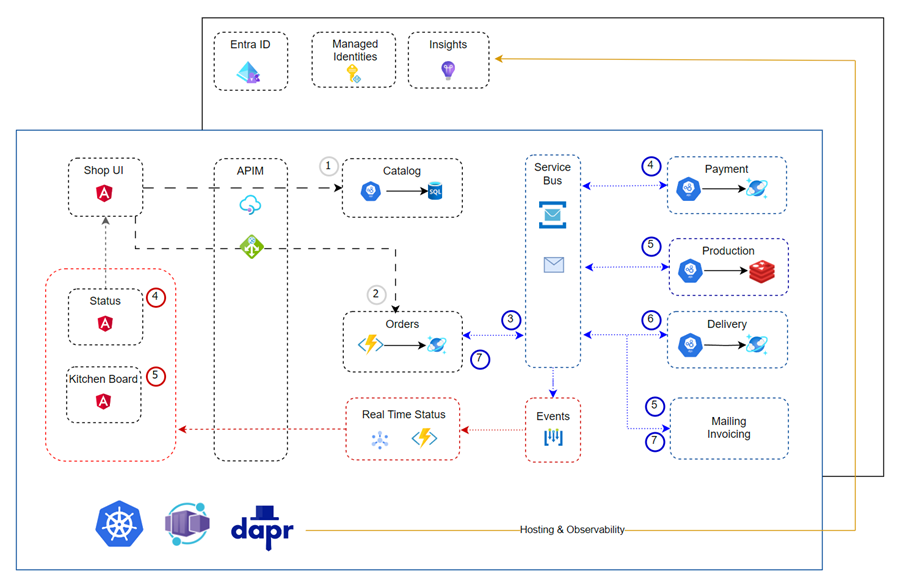
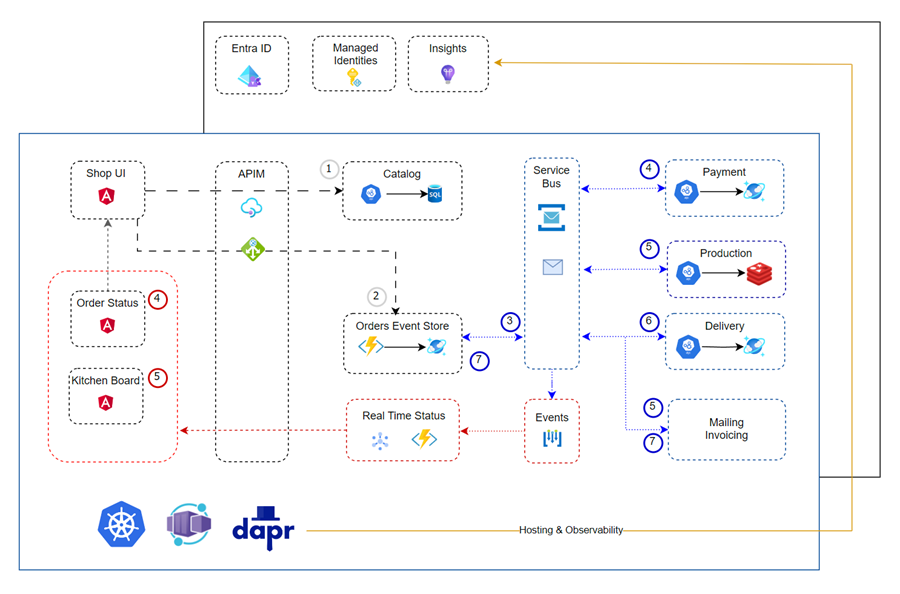
change feed

diff --git a/demos/05-cosmos-db/04-change-feed/order-events-service/Model/OrderEvent.cs b/demos/05-cosmos-db/04-change-feed/order-events-service/Model/OrderEvent.cs
@@ -1,5 +1,4 @@
 using Newtonsoft.Json;
-using Newtonsoft.Json.Linq;
 
 namespace FoodApp.Orders
 {
@@ -16,6 +15,7 @@ namespace FoodApp.Orders
             OrderId = orderId;
             EventType = eventType;
             EventData = eventData;
+            Timestamp = System.DateTime.UtcNow;
         }
 
         [JsonProperty("id")]

diff --git a/demos/01-introduction/02-architecture/readme.md b/demos/01-introduction/02-architecture/readme.md
@@ -28,7 +28,7 @@
 
 Food App is a food delivery application that is used to demonstrate how to combine the different Azure building blocks, in order to build a modern cloud native application. It consists of several Micro Frontends and uses a Microservice Architecture which will be hosted on Azure Container Apps to allow focusing on the development of the application and not on the infrastructure. It could also be deployed to Azure Kubernetes Service (AKS).
 
-Dapr will be used to connect the different microservices and to implement the Saga Pattern to handle distributed transactions. It will also provide Observability and Distributed Tracing.
+Dapr will be used to connect the different microservices and to implement the Saga Pattern to handle distributed transactions. It will also provide Service Discovery, Observability and Distributed Tracing.
 
 
 ![food-app](_images/app.png)
@@ -45,13 +45,13 @@ An API that returns a list of food items from a relational SQL Server database (
 
 An API that uses Cosmos DB as an event store (2). The order events will be processed using the change feed and will be stored in another container where they are aggregated and optimized for reads in order to demonstrate Event Sourcing & CQRS (Command and Query Responsibility Segregation). The initial order event will be submitted to Service Bus to start the ordering process (3). 
 
-Some of the messages from Service Bus will be picked up by Event Grid and will be available to the Micro Frontend as real time data provided by SignalR. From this moment on the real-time state of the order is visible to the customer (4)  
+Some of the messages from Service Bus will be picked up by Event Grid and will be available to the Micro Frontend as real time data provided by SignalR. From this moment on the real-time state of the order is visible to the customer (4).
 
 Whenever a change of the order state is published by a microservice, it will be picked up by the Orders service, which uses it to keep track of the current order state. 
 
-After delivery has been completed, the order will be marked as completed (7)
+After delivery, the order will be marked as completed (7)
 
-Later, we will upgrade this API to implement a Saga Pattern to handle distributed transactions.
+Later, we will upgrade Order Service to implement a Saga Pattern using Dapr Actors to handle distributed transactions.
 
 ### Payment Service
 
